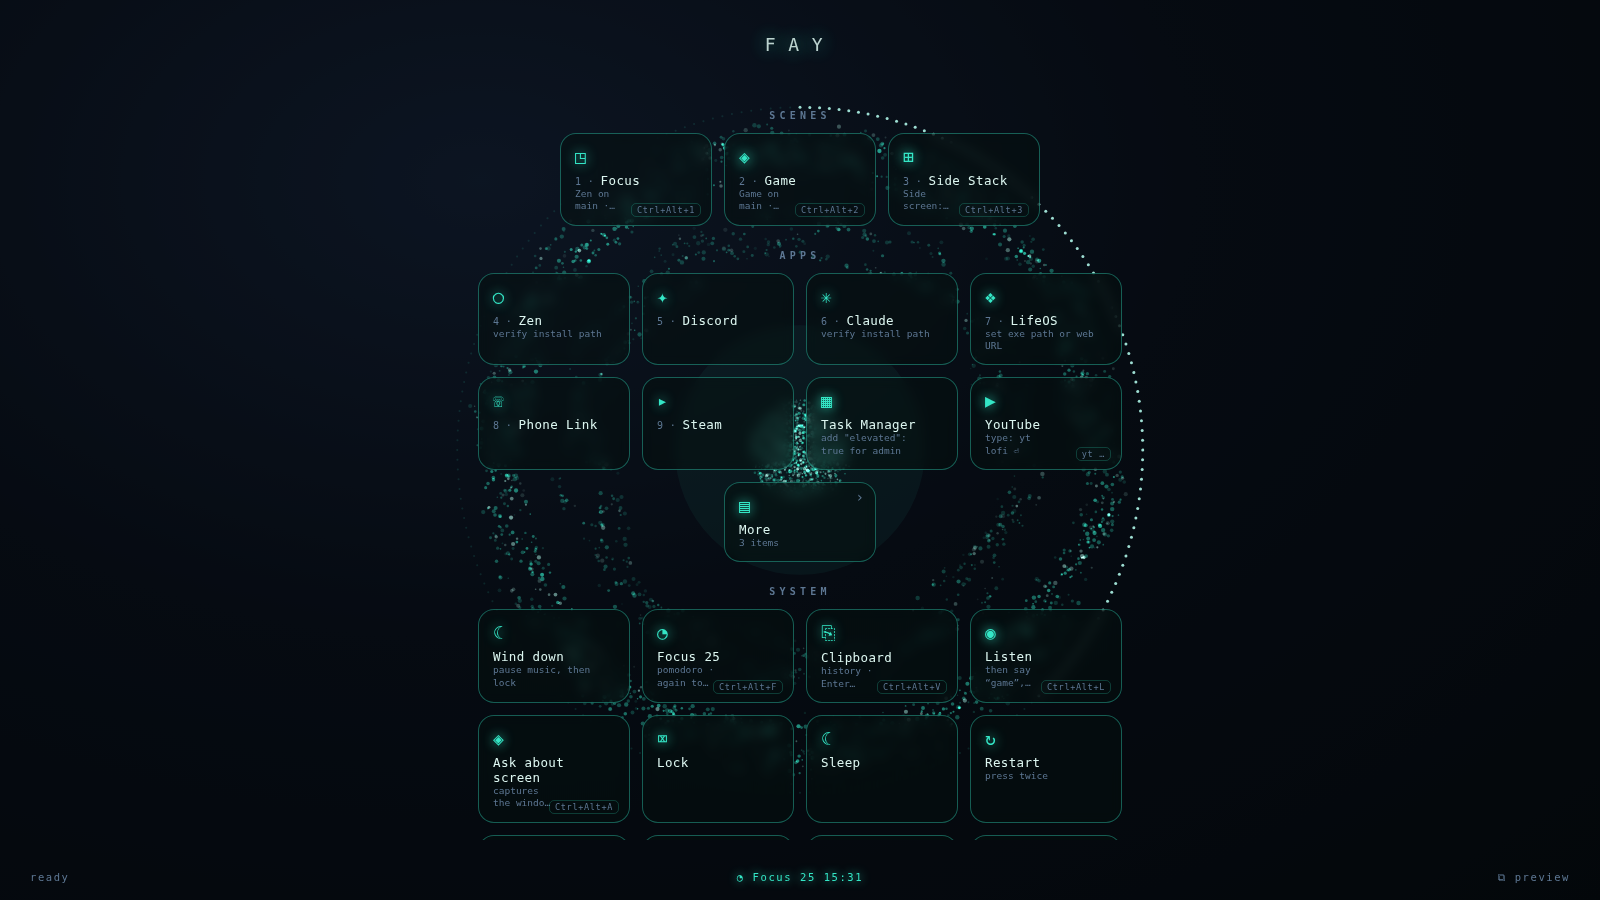
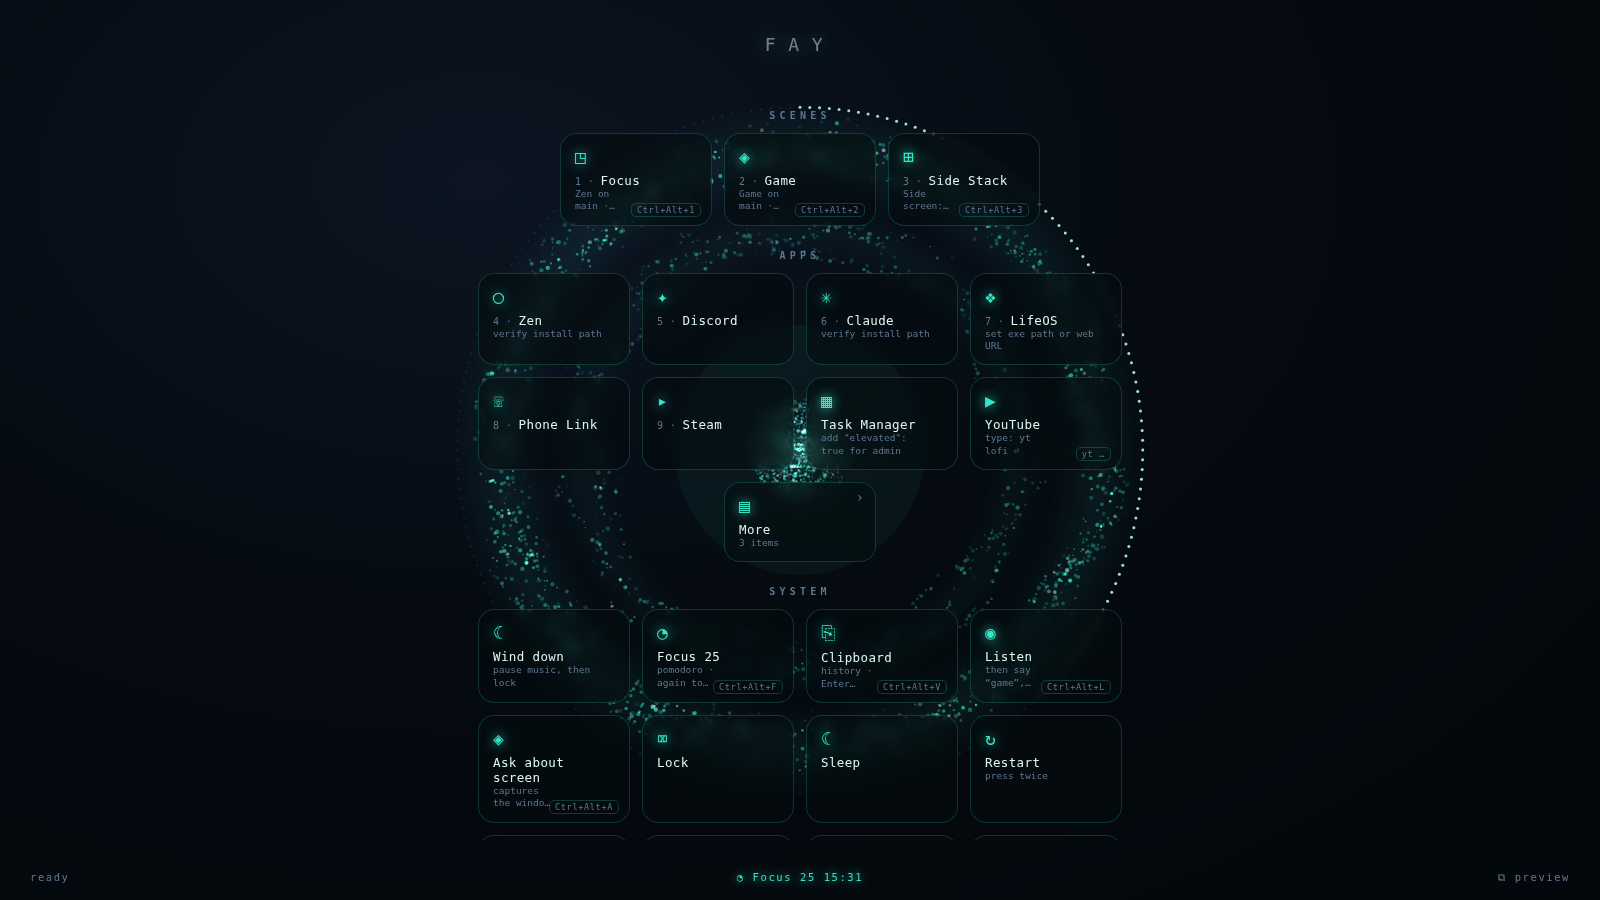
Phase 24: Heart polish — halo under the bands, sphere core, clock in the rim
Owner-chosen variant B plus the offered extras:
- soft radial halo behind the main and inner bands (volume, no lines)
- tighter band cores (close^1.6 falloff), same particle count
- sphere core: central bloom + brighter inner particles
- clock tucked into the sphere's lower rim; wordmark at half opacity
- quieter tiles (20% accent border, darker glass) so the Heart reads
  through the open deck
- docs/ui-preview.png and ui-deck.png re-rendered

Claude-Session: https://claude.ai/code/session_01GW63pfvM1j1X8fMhdG9kB2

diff --git a/src/heart.js b/src/heart.js
@@ -145,6 +145,15 @@
     if (t < listenUntil) pulseT = Math.max(pulseT, 0.3 + 0.25 * Math.sin(t * 3));             // listening
     const bt = Math.min(1, beat(t) + pulseT);
 
+    // soft halo under the bands — gives the rings volume without any solid line
+    const halo = (rr, w, a) => {
+      const g = ctx.createRadialGradient(cx, cy, Math.max(0, rr - w), cx, cy, rr + w);
+      g.addColorStop(0, col(accent, 0)); g.addColorStop(0.5, col(accent, a)); g.addColorStop(1, col(accent, 0));
+      ctx.fillStyle = g; ctx.beginPath(); ctx.arc(cx, cy, rr + w, 0, 6.283); ctx.fill();
+    };
+    halo(R * 0.98, R * 0.16, 0.07 + 0.03 * bt);
+    halo(R * 0.71, R * 0.10, 0.04);
+
     // rings
     for (const p of rings) {
       p.a += p.speed * dt;
@@ -152,7 +161,7 @@
       const r = baseR * (1 + p.amp * Math.sin(p.k * p.a)) + p.off * p.thFrac * R;
       const x = cx + r * Math.cos(p.a), y = cy + r * Math.sin(p.a);
       const close = 1 - Math.min(1, Math.abs(p.off));
-      const a = (0.05 + 0.7 * close) * p.bright * (0.4 + 0.6 * p.b) * (1 + 0.5 * pulseT);
+      const a = (0.04 + 0.8 * Math.pow(close, 1.6)) * p.bright * (0.45 + 0.55 * p.b) * (1 + 0.5 * pulseT);
       ctx.fillStyle = col(p.lite ? light : accent, Math.min(1, a));
       ctx.beginPath(); ctx.arc(x, y, p.sz, 0, 6.283); ctx.fill();
     }
@@ -160,10 +169,14 @@
     if (progress != null) drawProgress();
     if (stats && showStats) drawStats();
 
-    // soft glow behind the ball
+    // soft glow behind the ball, plus a tight bloom at its core
     const Rs = R * 0.17 * (1 + 0.10 * bt + 0.25 * pulseT);
     ctx.fillStyle = col(accent, 0.05 + 0.04 * bt + 0.12 * pulseT);
     ctx.beginPath(); ctx.arc(cx, cy, Rs * 2.4, 0, 6.283); ctx.fill();
+    const core = ctx.createRadialGradient(cx, cy, 0, cx, cy, Rs * 0.55);
+    core.addColorStop(0, col(light, 0.22 + 0.18 * bt));
+    core.addColorStop(1, col(accent, 0));
+    ctx.fillStyle = core; ctx.beginPath(); ctx.arc(cx, cy, Rs * 0.55, 0, 6.283); ctx.fill();
 
     // particle sphere
     for (const s of sphere) {
@@ -174,7 +187,7 @@
       const y3 = rad * sinth * Math.sin(s.ph);
       const z3 = rad * Math.cos(s.th);
       const front = (z3 / Rs + 1) / 2;
-      const a = Math.min(0.95, (0.10 + 0.8 * front) * (0.4 + 0.6 * s.b) * (0.8 + 0.4 * bt));
+      const a = Math.min(0.95, (0.10 + 0.8 * front) * (0.4 + 0.6 * s.b) * (0.8 + 0.4 * bt) * (1.25 - 0.45 * s.rr));
       ctx.fillStyle = col(s.lite ? light : accent, a);
       ctx.beginPath(); ctx.arc(cx + x3, cy + y3, s.sz * (0.5 + front), 0, 6.283); ctx.fill();
     }

diff --git a/src/styles.css b/src/styles.css
@@ -32,7 +32,7 @@ body { background: rgba(4, 8, 10, var(--backdrop-alpha)); }
   transform: translateX(-50%);
   font-size: 18px;
   letter-spacing: 0.7em;
-  opacity: 0.85;
+  opacity: 0.5;
   text-shadow: 0 0 18px var(--accent);
 }
 
@@ -51,9 +51,9 @@ body { background: rgba(4, 8, 10, var(--backdrop-alpha)); }
 
 .clock {
   position: absolute;
-  top: calc(50% + 130px); left: 50%;
+  top: calc(50% + 78px); left: 50%;
   transform: translateX(-50%);
-  font-size: 13px;
+  font-size: 12px;
   letter-spacing: 0.3em;
   color: var(--accent);
   opacity: 0.8;
@@ -104,8 +104,8 @@ body.in-folder .group--folder { display: flex; }
   position: relative;
   width: 152px; min-height: 58px;
   padding: 12px 14px; border-radius: 16px;
-  background: rgba(3, 16, 13, 0.5);
-  border: 1px solid color-mix(in srgb, var(--accent) 38%, transparent);
+  background: rgba(3, 12, 14, 0.58);
+  border: 1px solid color-mix(in srgb, var(--accent) 20%, transparent);
   -webkit-backdrop-filter: blur(6px); backdrop-filter: blur(6px);
   cursor: pointer;
   display: flex; flex-direction: column; gap: 6px;

diff --git a/docs/STATE.md b/docs/STATE.md
@@ -42,7 +42,8 @@ the workflows now clear old bundles before building.)
 | 20 | **Batch 4 / search** — results mode (rows replace the grid): `>` files via Everything `es.exe` (`app.everything`), `@` browser bookmarks (Zen/Firefox jsonlz4 + Chromium JSON, `lz4_flex`), clipboard history (memory only, `kind: "clipboard"` tile + `Ctrl+Alt+V`, Enter pastes) (in PR) |
 | 21 | **Batch 5 / voice** — persistent `System.Speech` PowerShell process (`voice_config`, `say`, `listen`, `set_voice_grammar`); per-tile `say`, `kind: "say"` / `"listen"` tiles; grammar from tile names; `Heart.talk/listen`; `app.voice*` |
 | 22 | **Batch 6 / AI + picker** — natural-language bar (Enter on no-match or `?`), JSON plan → `TileAction` multi, bounded retry loop, destructive gate; screen-aware ask (`kind: "ask"`, `Ctrl+Alt+A`, capture-before-show); Anthropic or Ollama (`app.ai`); `+ Add app` picker (`pick_file`, `addTile`); debug round 2 (`-EncodedCommand`, history normalization, confirm gates) |
-| 23 | **Debug round 3 / first real render** — `docs/render-preview.js` screenshots the real frontend in headless Chromium; fixed the Heart drawn at ¼ size, `accent: "auto"` parsing as black, a duplicate tile id, and deck overflow (hint clamp, scrolling deck). `docs/ui-preview.png` + `ui-deck.png` are real renders now (in PR) |
+| 23 | **Debug round 3 / first real render** — `docs/render-preview.js` screenshots the real frontend in headless Chromium; fixed the Heart drawn at ¼ size, `accent: "auto"` parsing as black, a duplicate tile id, and deck overflow (hint clamp, scrolling deck). `docs/ui-preview.png` + `ui-deck.png` are real renders now |
+| 24 | **Heart polish (owner-approved variant B + extras)** — soft halo under both bands, tighter band cores, brighter sphere core with bloom, clock tucked into the sphere's rim, wordmark at half opacity, quieter tile borders/glass so the Heart reads through the deck (in PR) |
 
 ## ⚙ CI (`.github/workflows/ci.yml`)
 

diff --git a/docs/DECISIONS.md b/docs/DECISIONS.md
@@ -387,3 +387,15 @@ to two lines (full on hover), the deck scrolls within the viewport, and
 groups whose tiles are all filtered out hide their label. `docs/ui-preview.png`
 is now the real render, not a mockup. Lesson recorded: a screenshot of the
 real frontend is cheap here and should be part of every UI-touching PR.
+
+### 2026-09-18 — Phase 24: Heart polish, chosen from rendered variants
+The owner picked between two real renders (A = as merged, B = polished) and
+took B plus the two extras offered. B adds a soft radial halo under the main
+and inner bands (volume without any solid line — the "bubble" the owner asked
+for originally), sharpens band cores with a `close^1.6` falloff so rings look
+denser at the same particle count, and quiets the deck tiles (20 % accent
+border, darker glass) so the Heart reads through them. The extras: a bloom
+and brighter inner particles give the sphere a core so it reads as the
+button, the clock sits in the sphere's lower rim, and the wordmark drops to
+half opacity. Process decision reaffirmed: design choices are made on
+rendered screenshots of the real frontend, one render per tweak.
